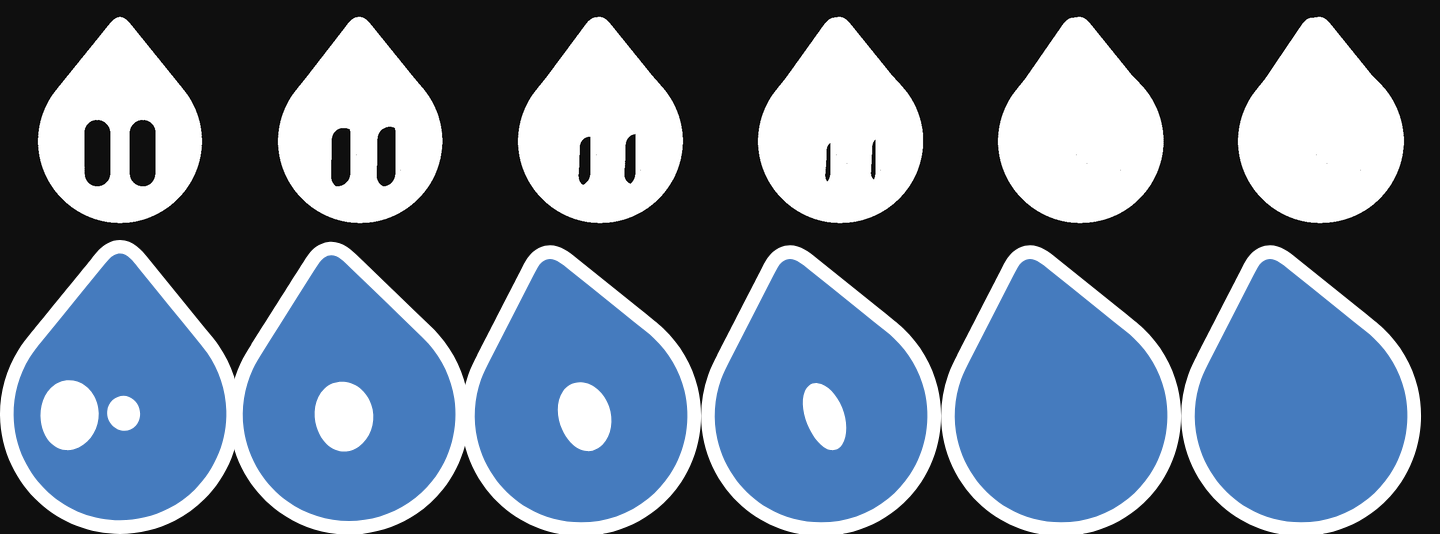
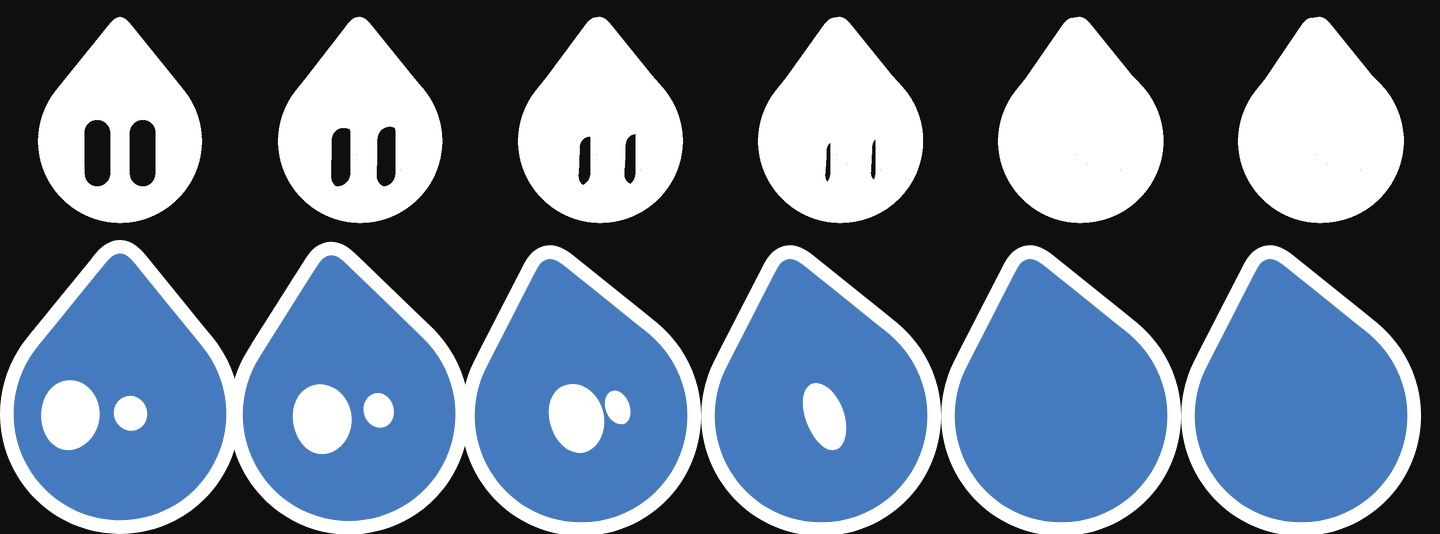
fix: keep look-around eyes as a separate pair — group slide, ≤12% compression, far eye ≥0.75×

Changed region(s): [[0.1875, 0.7191, 0.2812, 0.8689], [0.375, 0.7191, 0.4375, 0.839], [0.0625, 0.7191, 0.125, 0.809]]

diff --git a/src/render/botArt.ts b/src/render/botArt.ts
@@ -184,6 +184,14 @@ const YAW_FADE_START = 0.72;
 const YAW_FADE_END = 0.96;
 /** Slide limit as a fraction of the eye-pair half-span (matches the refs' ~±0.15 body widths). */
 const YAW_SLIDE_LIM = 0.55;
+/** |yaw| below this uses the look-around group layout; above LOOK_BLEND_HI the
+ *  sphere projection (turn-away) is used unchanged. Blend between. */
+const LOOK_BLEND_LO = 0.42;
+const LOOK_BLEND_HI = 0.7;
+/** Look-around spacing compression: cos(a·LOOK_COMPRESS) ≈ 11% at yaw ±0.35. */
+const LOOK_COMPRESS = 0.8;
+/** Look-around foreshorten: far eye lands at ≈0.75× at yaw ±0.35. */
+const LOOK_DROP = 0.46;
 /** Approximate the body silhouette as an ellipse (fraction of viewBox) so the
  *  slide clamp keeps eyes inside the silhouette — they never float outside it. */
 const BODY_RX = 0.44;
@@ -197,12 +205,22 @@ export type EyePose = {
   visible: boolean;
 };
 
+function smooth01(t: number): number {
+  const k = Math.max(0, Math.min(1, t));
+  return k * k * (3 - 2 * k);
+}
+
 /**
- * Per-eye pose for a head yaw (−1..1). Near-side eye squashes into the edge
- * first; the far eye slides inward, then also thins out — at full turn no
- * eyes show (back of head). dx is in viewBox units; scale to the render
- * space (world k or CSS %) at the call site. Slide is clamped inside an
- * ellipse approximating the body silhouette so eyes stay on the face.
+ * Per-eye pose for a head yaw (−1..1). Two regimes, blended:
+ * - Look-around (|yaw| ≲ 0.42): the pair slides as one group (offset ∝ yaw,
+ *   clamped so the whole group stays inside the silhouette), spacing
+ *   compresses ≤ ~12%, the far eye narrows to no less than ~0.75× — the eyes
+ *   never merge, matching the look-around reference.
+ * - Turn-away (|yaw| → 1): eyes ride a face-sphere projection — they slide
+ *   toward the edge, thin out and fade past YAW_FADE_START so none show at
+ *   full turn (back of head).
+ * dx is in viewBox units; scale to the render space (world k or CSS %) at
+ * the call site.
  */
 export function yawEyeTransforms(art: StickerArt, yaw: number): EyePose[] {
   const y = Math.max(-1.15, Math.min(1.15, yaw));
@@ -218,23 +236,50 @@ export function yawEyeTransforms(art: StickerArt, yaw: number): EyePose[] {
     0,
     1 - Math.max(0, Math.abs(y) - YAW_FADE_START) / (YAW_FADE_END - YAW_FADE_START)
   );
-  return art.eyes.map((e) => {
+  const a = y * YAW_TO_ANGLE;
+  const comp = Math.cos(a * LOOK_COMPRESS);
+  const m = smooth01((Math.abs(y) - LOOK_BLEND_LO) / (LOOK_BLEND_HI - LOOK_BLEND_LO));
+
+  // Per-eye rest offset + silhouette bounds (eye's shrunken half-width must
+  // stay inside the body ellipse at its own height).
+  const bounds = art.eyes.map((e) => {
     const ecx = e.box[0] + e.box[2] / 2 - ecx0;
-    const theta = (ecx / span) * EYE_THETA_MAX;
-    const a = theta + y * YAW_TO_ANGLE;
-    const c = Math.cos(a);
-    let x = Math.max(-xLim, Math.min(xLim, Math.sin(a) * rx));
-    // Silhouette clamp: the eye's shrunken half-width must stay inside the
-    // body ellipse at the eye's own height.
+    const c = Math.cos((ecx / span) * EYE_THETA_MAX + a);
     const ny = Math.max(-1, Math.min(1, (e.box[1] + e.box[3] / 2 - art.vbH / 2) / bry));
     const halfW = brx * Math.sqrt(1 - ny * ny);
     const hw = (e.box[2] / 2) * Math.max(0.25, c);
-    const lo = bcx - halfW + hw + BODY_MARGIN - ecx0;
-    const hi = bcx + halfW - hw - BODY_MARGIN - ecx0;
-    x = Math.max(Math.min(lo, ecx), Math.min(Math.max(hi, ecx), x));
-    // Softened foreshortening: the reference keeps eyes mostly legible through
-    // the turn — they thin fast only once the edge fade kicks in.
-    const sx = Math.pow(Math.max(0, c), 0.7) * edge;
+    return {
+      ecx,
+      lo: bcx - halfW + hw + BODY_MARGIN - ecx0,
+      hi: bcx + halfW - hw - BODY_MARGIN - ecx0,
+    };
+  });
+
+  // Group offset ∝ yaw, limited so the whole pair stays inside the silhouette.
+  let group = Math.sin(a) * span;
+  let gLo = -Infinity;
+  let gHi = Infinity;
+  for (const b of bounds) {
+    gLo = Math.max(gLo, Math.min(b.lo, b.ecx) - b.ecx * comp);
+    gHi = Math.min(gHi, Math.max(b.hi, b.ecx) - b.ecx * comp);
+  }
+  if (gHi >= gLo) group = Math.max(gLo, Math.min(gHi, group));
+
+  return art.eyes.map((_e, i) => {
+    const b = bounds[i]!;
+    const ecx = b.ecx;
+    const theta = (ecx / span) * EYE_THETA_MAX;
+    const ai = theta + a;
+    const c = Math.cos(ai);
+    // Turn-away sphere pose.
+    const xs = Math.max(-xLim, Math.min(xLim, Math.sin(ai) * rx));
+    const xSph = Math.max(Math.min(b.lo, ecx), Math.min(Math.max(b.hi, ecx), xs));
+    const sxSph = Math.pow(Math.max(0, c), 0.7);
+    // Look-around group pose.
+    const xLook = group + ecx * comp;
+    const sxLook = Math.max(0.25, 1 - LOOK_DROP * (1 - c));
+    const x = xLook + (xSph - xLook) * m;
+    const sx = (sxLook + (sxSph - sxLook) * m) * edge;
     return {
       dx: x - ecx,
       sx,

diff --git a/tests/unit/bot-art.test.ts b/tests/unit/bot-art.test.ts
@@ -1,0 +1,59 @@
+import { describe, expect, it } from 'vitest';
+import { STICKERS } from '../../src/render/botArt.generated';
+import { yawEyeTransforms } from '../../src/render/botArt';
+
+// The look-around cycle sweeps yaw over ±0.35 (lookAroundYaw amplitude).
+// The reference keeps two clearly separate eyes the whole time — the pair
+// slides as a group, so the transformed eye boxes must never merge into one.
+const LOOK_RANGE = 0.35;
+
+function transformedGap(
+  art: (typeof STICKERS)[number],
+  yaw: number
+): number {
+  const sorted = [...art.eyes].sort((a, b) => a.box[0] - b.box[0]);
+  const poses = yawEyeTransforms(art, yaw);
+  const i1 = art.eyes.indexOf(sorted[0]!);
+  const i2 = art.eyes.indexOf(sorted[1]!);
+  const p1 = poses[i1]!;
+  const p2 = poses[i2]!;
+  const c1 = sorted[0]!.box[0] + sorted[0]!.box[2] / 2 + p1.dx;
+  const c2 = sorted[1]!.box[0] + sorted[1]!.box[2] / 2 + p2.dx;
+  const right1 = c1 + (sorted[0]!.box[2] * p1.sx) / 2;
+  const left2 = c2 - (sorted[1]!.box[2] * p2.sx) / 2;
+  return left2 - right1;
+}
+
+describe('yawEyeTransforms look-around layout', () => {
+  for (const art of STICKERS) {
+    if (art.eyes.length < 2) continue;
+    it(`sticker ${art.id} never merges its eyes over the look-around range`, () => {
+      const sorted = [...art.eyes].sort((a, b) => a.box[0] - b.box[0]);
+      const restGap = sorted[1]!.box[0] - (sorted[0]!.box[0] + sorted[0]!.box[2]);
+      let minGap = Infinity;
+      for (let i = 0; i <= 200; i++) {
+        const yaw = -LOOK_RANGE + (2 * LOOK_RANGE * i) / 200;
+        minGap = Math.min(minGap, transformedGap(art, yaw));
+      }
+      if (restGap > 0) {
+        expect(minGap).toBeGreaterThanOrEqual(restGap * 0.4);
+      } else {
+        // Sticker 02's blob eyes overlap in bbox terms even at rest; the look
+        // must not let them merge further than that resting overlap.
+        expect(minGap).toBeGreaterThanOrEqual(restGap - 0.5);
+      }
+    });
+  }
+
+  it('keeps both eyes visible and the far eye ≥ ~0.75× at the look extremes', () => {
+    for (const art of STICKERS) {
+      if (art.eyes.length < 2) continue;
+      for (const yaw of [-LOOK_RANGE, LOOK_RANGE]) {
+        for (const pose of yawEyeTransforms(art, yaw)) {
+          expect(pose.visible).toBe(true);
+          expect(pose.sx).toBeGreaterThanOrEqual(0.74);
+        }
+      }
+    }
+  });
+});
